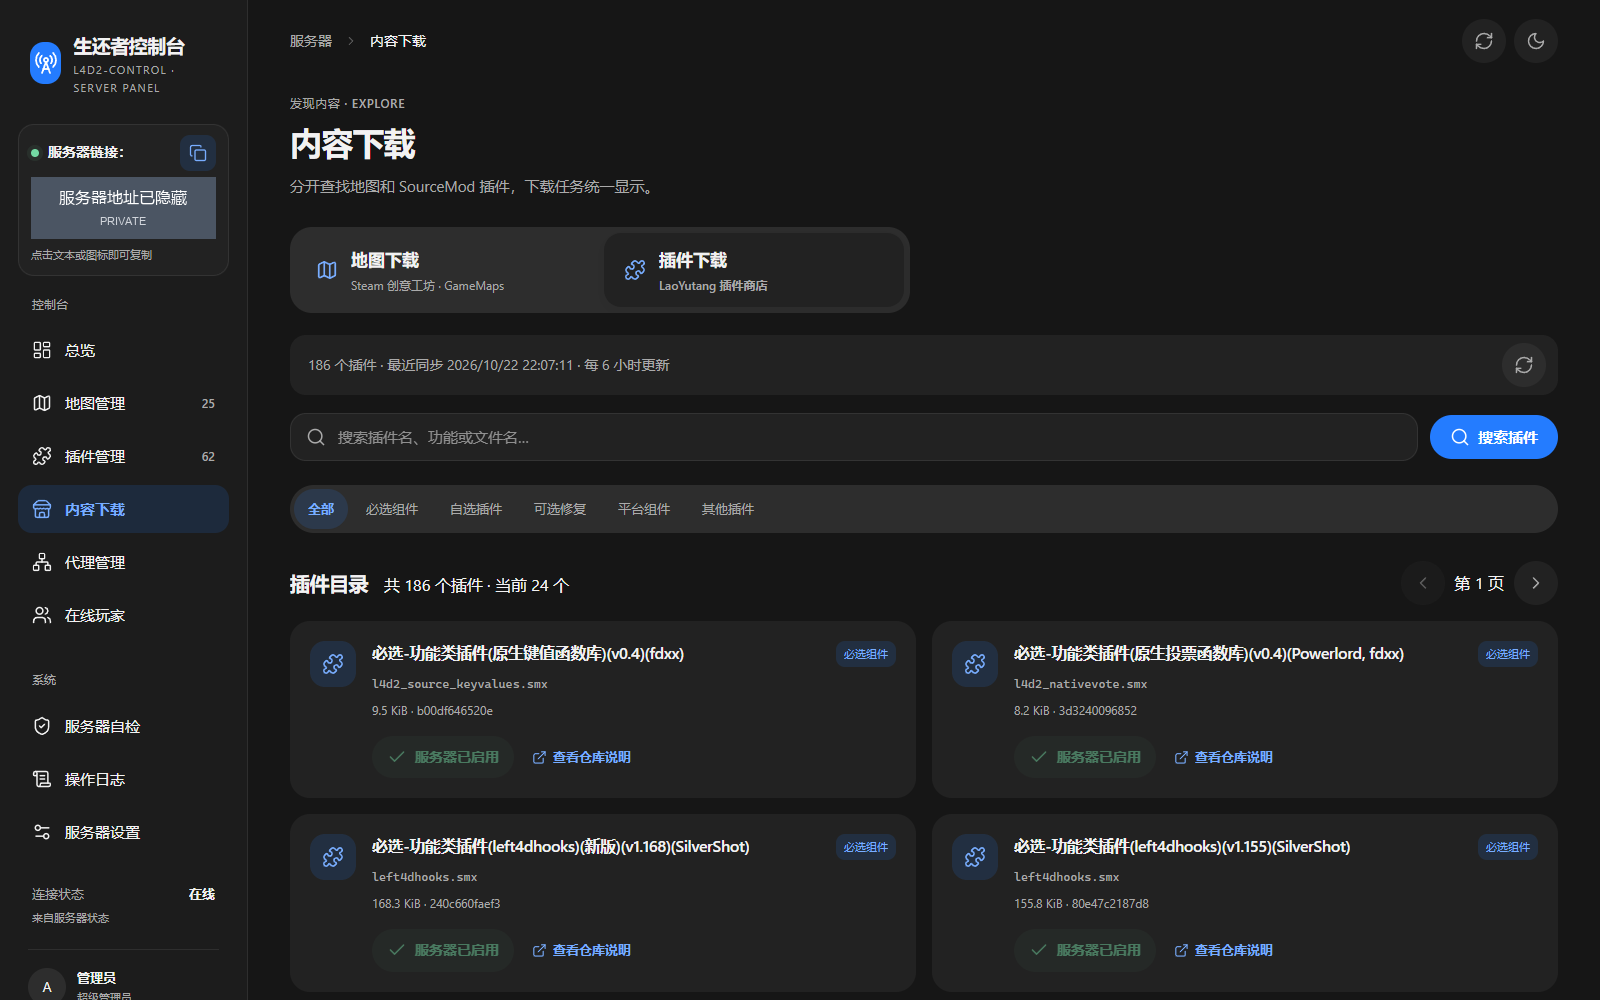
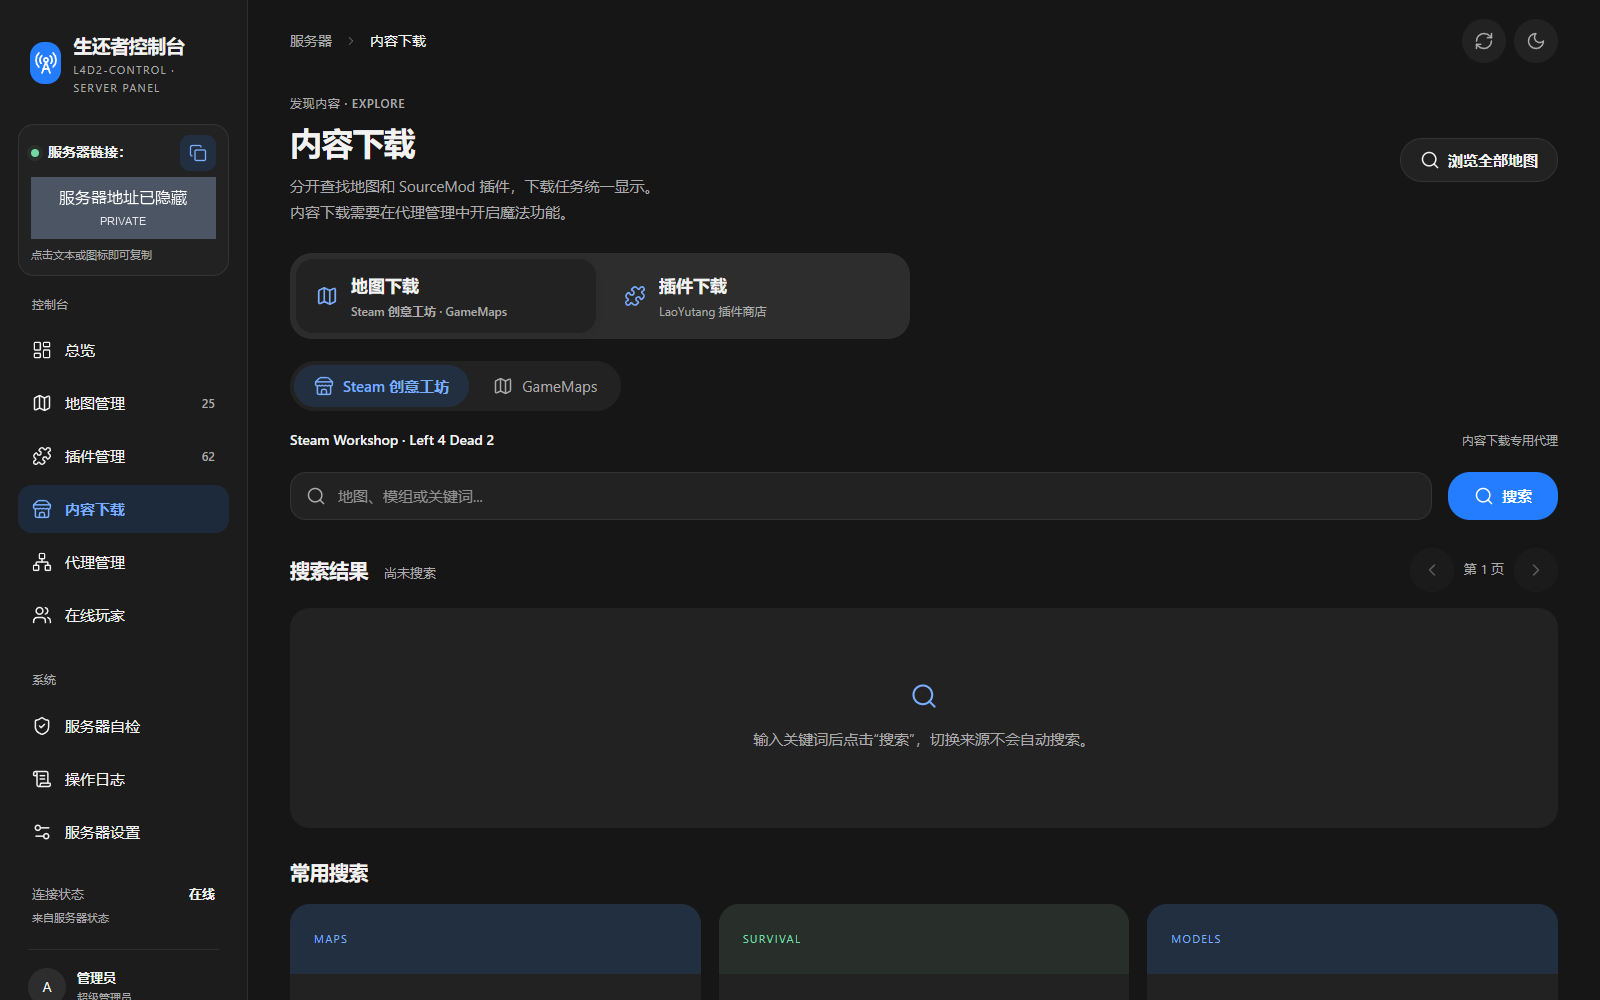
Fix manual content search and add download compatibility notices

diff --git a/index.html b/index.html
@@ -54,7 +54,7 @@
 
       <section class="content hidden" id="mapsView"><div class="page-heading compact"><div><p class="eyebrow">内容库 · MAPS</p><h1>地图管理</h1><p id="mapCoverage">正在读取服务器地图…</p></div><div class="library-actions"><button class="secondary-button" id="importMaps"><i data-lucide="upload"></i>导入地图</button><input id="mapFiles" type="file" accept=".vpk,.zip" multiple hidden><button class="primary-button" id="randomMapBtn"><i data-lucide="shuffle"></i>随机地图</button></div></div><div class="library-help">导入本地 VPK 或 ZIP 地图包（每个文件不超过 2 GiB）。云端备份后可用“直连下载导出（推荐）”绕过服务器带宽；“服务器下载导出”由本服务器中转。官方地图不提供导出。章节自动归组；删除按整包处理。新地图可能需要重启游戏服务后生效。</div><div class="library-status hidden" id="mapsImportStatus" role="status" aria-live="polite"></div><div class="toolbar"><label class="search-box"><i data-lucide="search"></i><input id="mapSearch" placeholder="搜索战役或章节..." aria-label="搜索地图"></label><div class="filter-tabs" id="mapFilters"><button class="active" data-filter="custom" aria-pressed="true">自定义 <span id="customMapCount">…</span></button><button data-filter="official" aria-pressed="false">官方 <span id="officialMapCount">…</span></button><button data-filter="other" aria-pressed="false">其他 <span id="otherMapCount">…</span></button></div></div><div class="maps-layout"><div class="campaign-list" id="mapRows"></div><aside class="map-detail panel" id="mapDetail"></aside></div></section>
 
-      <section class="content hidden" id="pluginsView"><div class="page-heading compact"><div><p class="eyebrow">扩展管理 · PLUGINS</p><h1>插件管理</h1><p>按功能查找服务器实际安装的 SourceMod 插件。</p></div><div class="library-actions"><button class="primary-button" id="importPlugins"><i data-lucide="upload"></i>导入插件</button><input id="pluginFiles" type="file" accept=".smx" multiple hidden><button class="secondary-button" id="reloadPlugins"><i data-lucide="rotate-ccw"></i>重载插件</button></div></div><div class="library-help">支持 SMX 插件（每个文件不超过 64 MiB），导入后默认停用，请确认依赖齐全再启用。导出保存单个 SMX；配置、翻译和扩展依赖不包含在内，迁移时需单独备份。</div><div class="library-status hidden" id="pluginsImportStatus" role="status" aria-live="polite"></div><div class="plugin-summary"><div><strong id="pluginTotal">…</strong><span>已安装</span></div><div><strong id="pluginEnabled">…</strong><span>已启用</span></div><div><strong>6</strong><span>功能分类</span></div><div class="plugin-note"><i data-lucide="info"></i><span>停用后文件移入 disabled，重启后仍保持停用。</span></div></div><div class="toolbar"><label class="search-box"><i data-lucide="search"></i><input id="pluginSearch" placeholder="搜索中文名称或文件名..." aria-label="搜索插件"></label><div class="filter-tabs" id="pluginFilters"><button class="active" data-filter="all">全部</button><button data-filter="admin">管理权限</button><button data-filter="vote">地图与投票</button><button data-filter="players">玩家与人数</button><button data-filter="gameplay">玩法与物品</button><button data-filter="fix">修复与优化</button><button data-filter="framework">框架依赖</button></div></div><div class="plugin-grid" id="pluginGrid"></div></section>
+      <section class="content hidden" id="pluginsView"><div class="page-heading compact"><div><p class="eyebrow">扩展管理 · PLUGINS</p><h1>插件管理</h1><p>按功能查找服务器实际安装的 SourceMod 插件。</p><p>插件可能因插件平台版本差异而不可用。</p></div><div class="library-actions"><button class="primary-button" id="importPlugins"><i data-lucide="upload"></i>导入插件</button><input id="pluginFiles" type="file" accept=".smx" multiple hidden><button class="secondary-button" id="reloadPlugins"><i data-lucide="rotate-ccw"></i>重载插件</button></div></div><div class="library-help">支持 SMX 插件（每个文件不超过 64 MiB），导入后默认停用，请确认依赖齐全再启用。导出保存单个 SMX；配置、翻译和扩展依赖不包含在内，迁移时需单独备份。</div><div class="library-status hidden" id="pluginsImportStatus" role="status" aria-live="polite"></div><div class="plugin-summary"><div><strong id="pluginTotal">…</strong><span>已安装</span></div><div><strong id="pluginEnabled">…</strong><span>已启用</span></div><div><strong>6</strong><span>功能分类</span></div><div class="plugin-note"><i data-lucide="info"></i><span>停用后文件移入 disabled，重启后仍保持停用。</span></div></div><div class="toolbar"><label class="search-box"><i data-lucide="search"></i><input id="pluginSearch" placeholder="搜索中文名称或文件名..." aria-label="搜索插件"></label><div class="filter-tabs" id="pluginFilters"><button class="active" data-filter="all">全部</button><button data-filter="admin">管理权限</button><button data-filter="vote">地图与投票</button><button data-filter="players">玩家与人数</button><button data-filter="gameplay">玩法与物品</button><button data-filter="fix">修复与优化</button><button data-filter="framework">框架依赖</button></div></div><div class="plugin-grid" id="pluginGrid"></div></section>
 
       <section class="content hidden" id="diagnosticsView">
         <div class="page-heading compact"><div><p class="eyebrow">系统工具 · HEALTH CHECK</p><h1>服务器自检</h1><p>查看地图包同路径冲突、SourceMod 插件运行状态，并管理地图云端备份。</p></div><button class="primary-button" id="runDiagnostics"><i data-lucide="scan-search"></i>开始检查</button></div>
@@ -68,7 +68,7 @@
       </section>
 
       <section class="content hidden" id="workshopView">
-        <div class="page-heading compact"><div><p class="eyebrow">发现内容 · EXPLORE</p><h1>内容下载</h1><p>分开查找地图和 SourceMod 插件，下载任务统一显示。</p></div><button class="secondary-button" id="openWorkshop"><i data-lucide="search"></i>浏览全部地图</button></div>
+        <div class="page-heading compact"><div><p class="eyebrow">发现内容 · EXPLORE</p><h1>内容下载</h1><p>分开查找地图和 SourceMod 插件，下载任务统一显示。</p><p>内容下载需要在代理管理中开启魔法功能。</p></div><button class="secondary-button" id="openWorkshop"><i data-lucide="search"></i>浏览全部地图</button></div>
         <div class="filter-tabs content-sections" id="contentSections" role="tablist" aria-label="内容类型"><button class="active" role="tab" aria-selected="true" data-content-section="maps"><i data-lucide="map"></i><span><strong>地图下载</strong><small>Steam 创意工坊 · GameMaps</small></span></button><button role="tab" aria-selected="false" data-content-section="plugins"><i data-lucide="puzzle"></i><span><strong>插件下载</strong><small>LaoYutang 插件商店</small></span></button></div>
         <section id="mapDownloadSection">
           <div class="filter-tabs content-sources" id="contentSources" role="tablist" aria-label="地图下载来源"><button class="active" role="tab" aria-selected="true" data-source="steam-workshop"><i data-lucide="store"></i>Steam 创意工坊</button><button role="tab" aria-selected="false" data-source="gamemaps"><i data-lucide="map"></i>GameMaps</button></div>
@@ -76,7 +76,7 @@
           <div class="toolbar workshop-toolbar"><label class="search-box workshop-search"><i data-lucide="search"></i><input id="workshopSearch" placeholder="地图、模组或关键词..." aria-label="搜索地图内容" maxlength="120"></label><button class="primary-button workshop-submit" id="searchWorkshop"><i data-lucide="search"></i>搜索</button></div>
           <p id="gameMapsHelp" class="hidden">支持中英文关键词、项目编号或详情链接，搜索后可直接安装到服务器。首次连接可能需要几秒钟。</p>
           <div class="workshop-results-heading"><div><h2>搜索结果</h2><span id="workshopResultMeta">尚未搜索</span></div><div class="workshop-pagination"><button class="icon-button small" id="workshopPrev" title="上一页" disabled><i data-lucide="chevron-left"></i></button><span id="workshopPage">第 1 页</span><button class="icon-button small" id="workshopNext" title="下一页" disabled><i data-lucide="chevron-right"></i></button></div></div>
-          <div class="workshop-results" id="workshopResults"><div class="workshop-empty"><i data-lucide="search"></i><p>暂无搜索结果</p></div></div><div class="workshop-section-title"><h2>常用搜索</h2></div><div class="workshop-grid" id="workshopGrid"></div>
+          <div class="workshop-results" id="workshopResults"><div class="workshop-empty"><i data-lucide="search"></i><p>输入关键词后点击“搜索”，切换来源不会自动搜索。</p></div></div><div class="workshop-section-title"><h2>常用搜索</h2></div><div class="workshop-grid" id="workshopGrid"></div>
         </section>
         <section id="pluginStoreSection" class="hidden">
           <div class="plugin-store-status" id="pluginStoreStatus" role="status" aria-live="polite"><span>正在读取插件商店目录…</span><button class="icon-button" id="refreshPluginStore" title="立即同步插件商店" aria-label="立即同步插件商店"><i data-lucide="refresh-cw"></i></button></div>

diff --git a/tests/panel navigation.test.js b/tests/panel navigation.test.js
@@ -68,3 +68,117 @@ test('new sessions, removed all filter and invalid storage default to custom saf
   f.context.setMapFilter('official'); assert.equal(f.context.mapFilter, 'official');
   f.context.setMapFilter('all'); assert.equal(f.context.mapFilter, 'custom');
 });
+
+function contentSearchFixture(respond = async () => ({ items: [], hasMore: false })) {
+  const nodes = new Map(), requests = [];
+  const element = selector => {
+    if (!nodes.has(selector)) nodes.set(selector, { value: '', textContent: '', innerHTML: '', disabled: false, childNodes: [{}], classList: { toggle() {} }, setAttribute() {} });
+    return nodes.get(selector);
+  };
+  const buttons = ['steam-workshop', 'gamemaps'].map(source => ({ dataset: { source }, classList: { toggle(name, active) { this.active = active; } }, setAttribute(name, value) { this[name] = value; } }));
+  const context = vm.createContext({
+    $: element, $$: selector => selector === '#contentSources button' ? buttons : [], AbortController,
+    contentSource: 'steam-workshop', contentSection: 'maps', workshopPage: 1, workshopQuery: '', workshopResults: [], workshopSearched: false,
+    searchVersion: 0, searchController: null, hasMoreResults: false, downloadJobs: [], pluginStoreLoaded: true, pluginStoreBusy: false,
+    escapeHtml: value => String(value ?? ''), icons() {}, renderDownloads() {}, renderWorkshop() {}, searchPluginStore() {},
+    api(url, options) { requests.push({ url, signal: options.signal }); return respond(url, options); }
+  });
+  for (const [start, end] of [
+    ['function renderWorkshopResults()', 'function renderPluginStoreResults()'],
+    ['async function searchWorkshop(', 'const bytesLabel ='],
+    ['function selectContentSource(', 'async function loadDownloads()'],
+    ["$('#workshopSearch').oninput", "$('#pluginStoreResults').onclick"]
+  ]) vm.runInContext(app.slice(app.indexOf(start), app.indexOf(end, app.indexOf(start))), context);
+  return { context, element, buttons, requests };
+}
+
+test('source tabs reset to idle without searching and preserve the typed query', () => {
+  const f = contentSearchFixture();
+  f.element('#workshopSearch').value = 'city map';
+  Object.assign(f.context, { workshopPage: 5, workshopResults: [{ id: 'old' }], hasMoreResults: true, workshopSearched: true });
+  for (const source of ['gamemaps', 'steam-workshop']) {
+    f.element('#contentSources').onclick({ target: { closest: () => f.buttons.find(button => button.dataset.source === source) } });
+    assert.equal(f.requests.length, 0);
+    assert.equal(f.context.workshopPage, 1);
+    assert.equal(f.context.workshopResults.length, 0);
+    assert.equal(f.element('#workshopSearch').value, 'city map');
+    assert.equal(f.element('#workshopResultMeta').textContent, '尚未搜索');
+    assert.match(f.element('#workshopResults').innerHTML, /点击“搜索”/);
+    assert.equal(f.element('#workshopNext').disabled, true);
+    assert.equal(f.element('#workshopPrev').disabled, true);
+    assert.equal(f.buttons.find(button => button.dataset.source === source)['aria-selected'], 'true');
+  }
+});
+
+test('typing and returning to map downloads never start a provider search', () => {
+  const f = contentSearchFixture();
+  f.element('#workshopSearch').value = 'campaign';
+  f.element('#workshopSearch').oninput();
+  f.context.selectContentSection('plugins'); f.context.selectContentSection('maps');
+  assert.equal(f.requests.length, 0);
+});
+
+test('explicit search uses the selected source and pagination keeps the submitted query', async () => {
+  const f = contentSearchFixture(async () => ({ items: [{ id: '123', title: 'Campaign' }], hasMore: true }));
+  f.context.selectContentSource('gamemaps', 'city map');
+  await f.element('#searchWorkshop').onclick();
+  assert.equal(f.requests.length, 1);
+  assert.equal(f.requests[0].url, '/api/gamemaps?query=city%20map&page=1');
+  assert.match(f.element('#workshopResults').innerHTML, /Campaign/);
+  f.element('#workshopSearch').value = 'unsubmitted edit';
+  f.element('#workshopNext').onclick();
+  await Promise.resolve();
+  assert.equal(f.requests[1].url, '/api/gamemaps?query=city%20map&page=2');
+});
+
+test('Enter, search shortcuts and browse all remain explicit search actions', async () => {
+  const f = contentSearchFixture();
+  f.element('#workshopSearch').value = 'survival';
+  f.element('#workshopSearch').onkeydown({ key: 'Enter' }); await Promise.resolve();
+  f.element('#workshopGrid').onclick({ target: { closest: () => ({ dataset: { workshop: 'campaign map' } }) } }); await Promise.resolve();
+  await f.element('#openWorkshop').onclick();
+  assert.deepEqual(f.requests.map(request => request.url), ['/api/workshop?query=survival&page=1', '/api/workshop?query=campaign%20map&page=1', '/api/workshop?query=&page=1']);
+});
+
+test('switching sources aborts pending requests and ignores their late results', async () => {
+  const pending = [];
+  const f = contentSearchFixture(() => new Promise(resolve => pending.push(resolve)));
+  const first = f.context.searchWorkshop('first');
+  f.context.selectContentSource('gamemaps');
+  assert.equal(f.requests[0].signal.aborted, true);
+  assert.equal(f.element('#searchWorkshop').disabled, false);
+  assert.equal(f.requests.length, 1);
+  const second = f.context.searchWorkshop('second');
+  pending[0]({ items: [{ id: 'old', title: 'Old source' }], hasMore: true }); await first;
+  assert.equal(f.context.workshopResults.length, 0);
+  assert.equal(f.element('#searchWorkshop').disabled, true);
+  assert.match(f.element('#workshopResultMeta').textContent, /正在搜索 GameMaps/);
+  pending[1]({ items: [{ id: 'new', title: 'New source' }], hasMore: false }); await second;
+  assert.equal(f.context.workshopResults[0].id, 'new');
+  assert.equal(f.element('#searchWorkshop').disabled, false);
+});
+
+test('late failures cannot overwrite the idle state after a source switch', async () => {
+  let reject;
+  const f = contentSearchFixture(() => new Promise((resolve, fail) => { reject = fail; }));
+  const first = f.context.searchWorkshop('first'); f.context.selectContentSource('gamemaps');
+  reject(Error('Old source failed')); await first;
+  assert.equal(f.element('#workshopResultMeta').textContent, '尚未搜索');
+  assert.doesNotMatch(f.element('#workshopResults').innerHTML, /Old source failed/);
+});
+
+test('explicit Steam recovery still searches, and an empty search is not shown as idle', async () => {
+  const f = contentSearchFixture();
+  f.context.selectContentSource('gamemaps', 'campaign');
+  await f.element('#workshopResults').onclick({ target: { closest: selector => selector === '[data-search-steam]' ? {} : null } });
+  assert.equal(f.requests.length, 1);
+  assert.equal(f.requests[0].url, '/api/workshop?query=campaign&page=1');
+  assert.equal(f.element('#workshopResultMeta').textContent, '没有匹配项目');
+  assert.match(f.element('#workshopResults').innerHTML, /请更换关键词/);
+});
+
+test('download and plugin introductions include their requested notices', () => {
+  const html = fs.readFileSync(path.join(__dirname, '..', 'index.html'), 'utf8');
+  assert.ok(html.includes('<p>分开查找地图和 SourceMod 插件，下载任务统一显示。</p><p>内容下载需要在代理管理中开启魔法功能。</p>'));
+  assert.ok(html.includes('<p>按功能查找服务器实际安装的 SourceMod 插件。</p><p>插件可能因插件平台版本差异而不可用。</p>'));
+});
